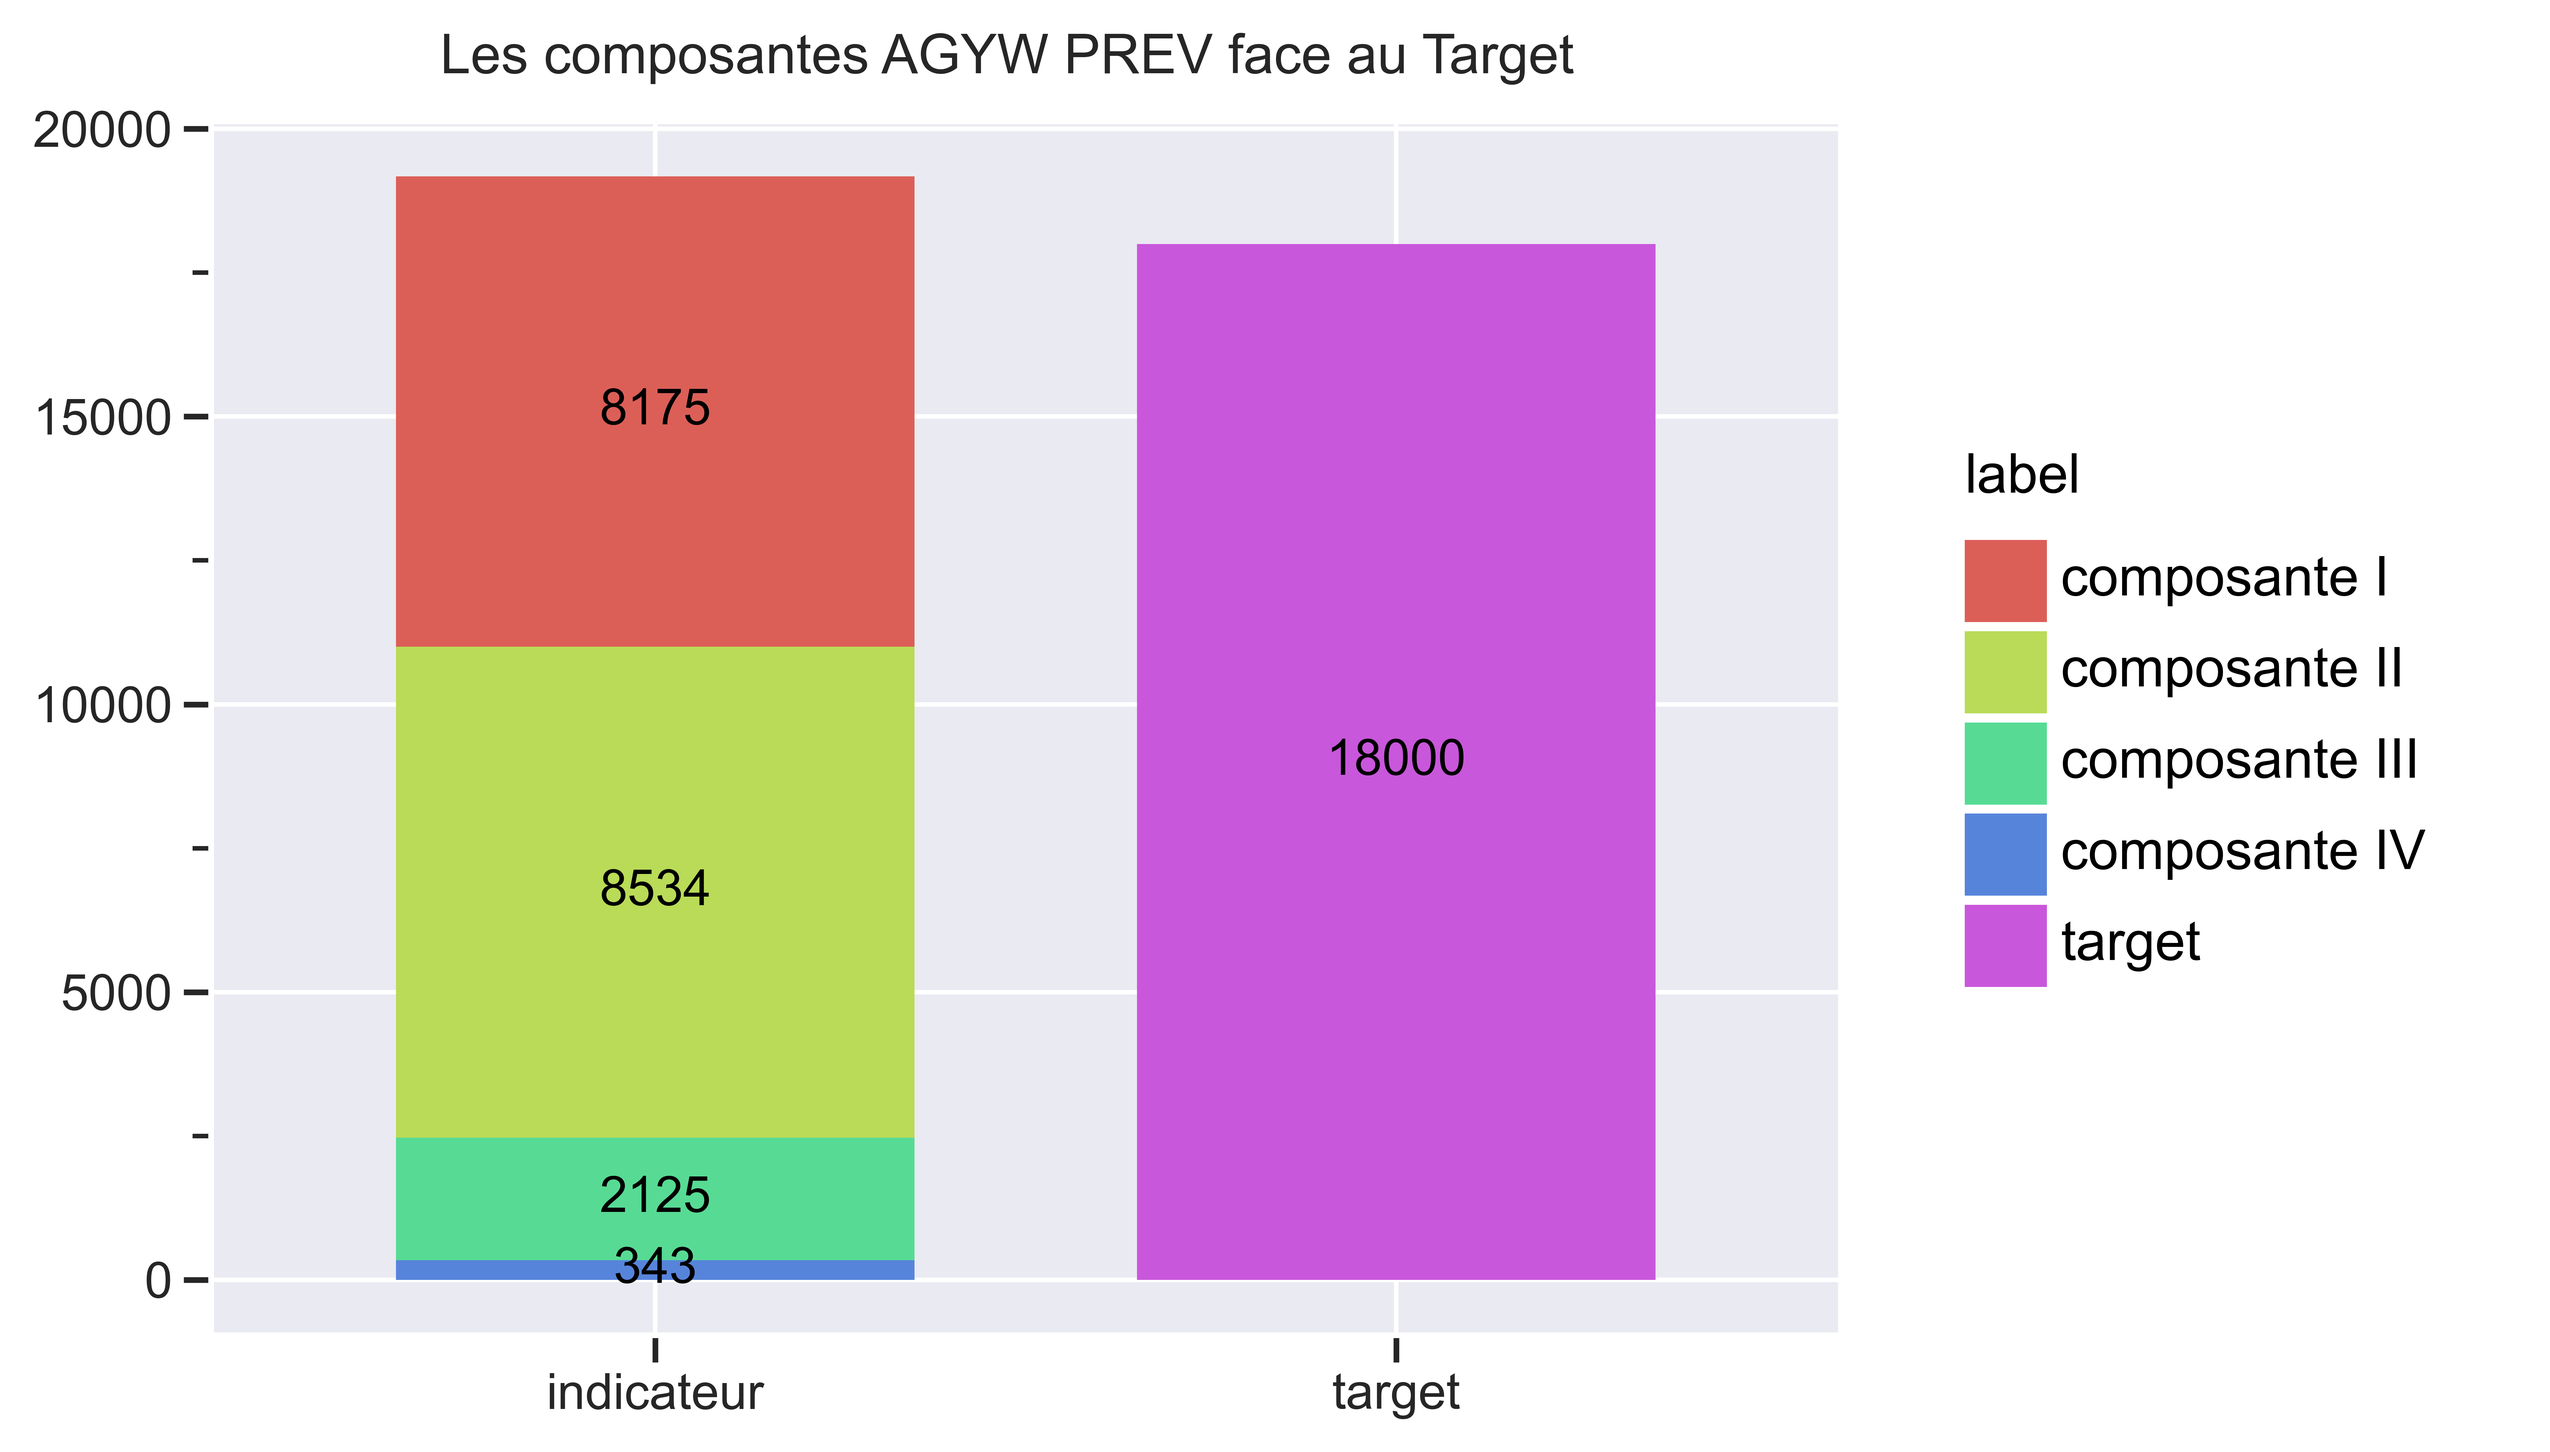
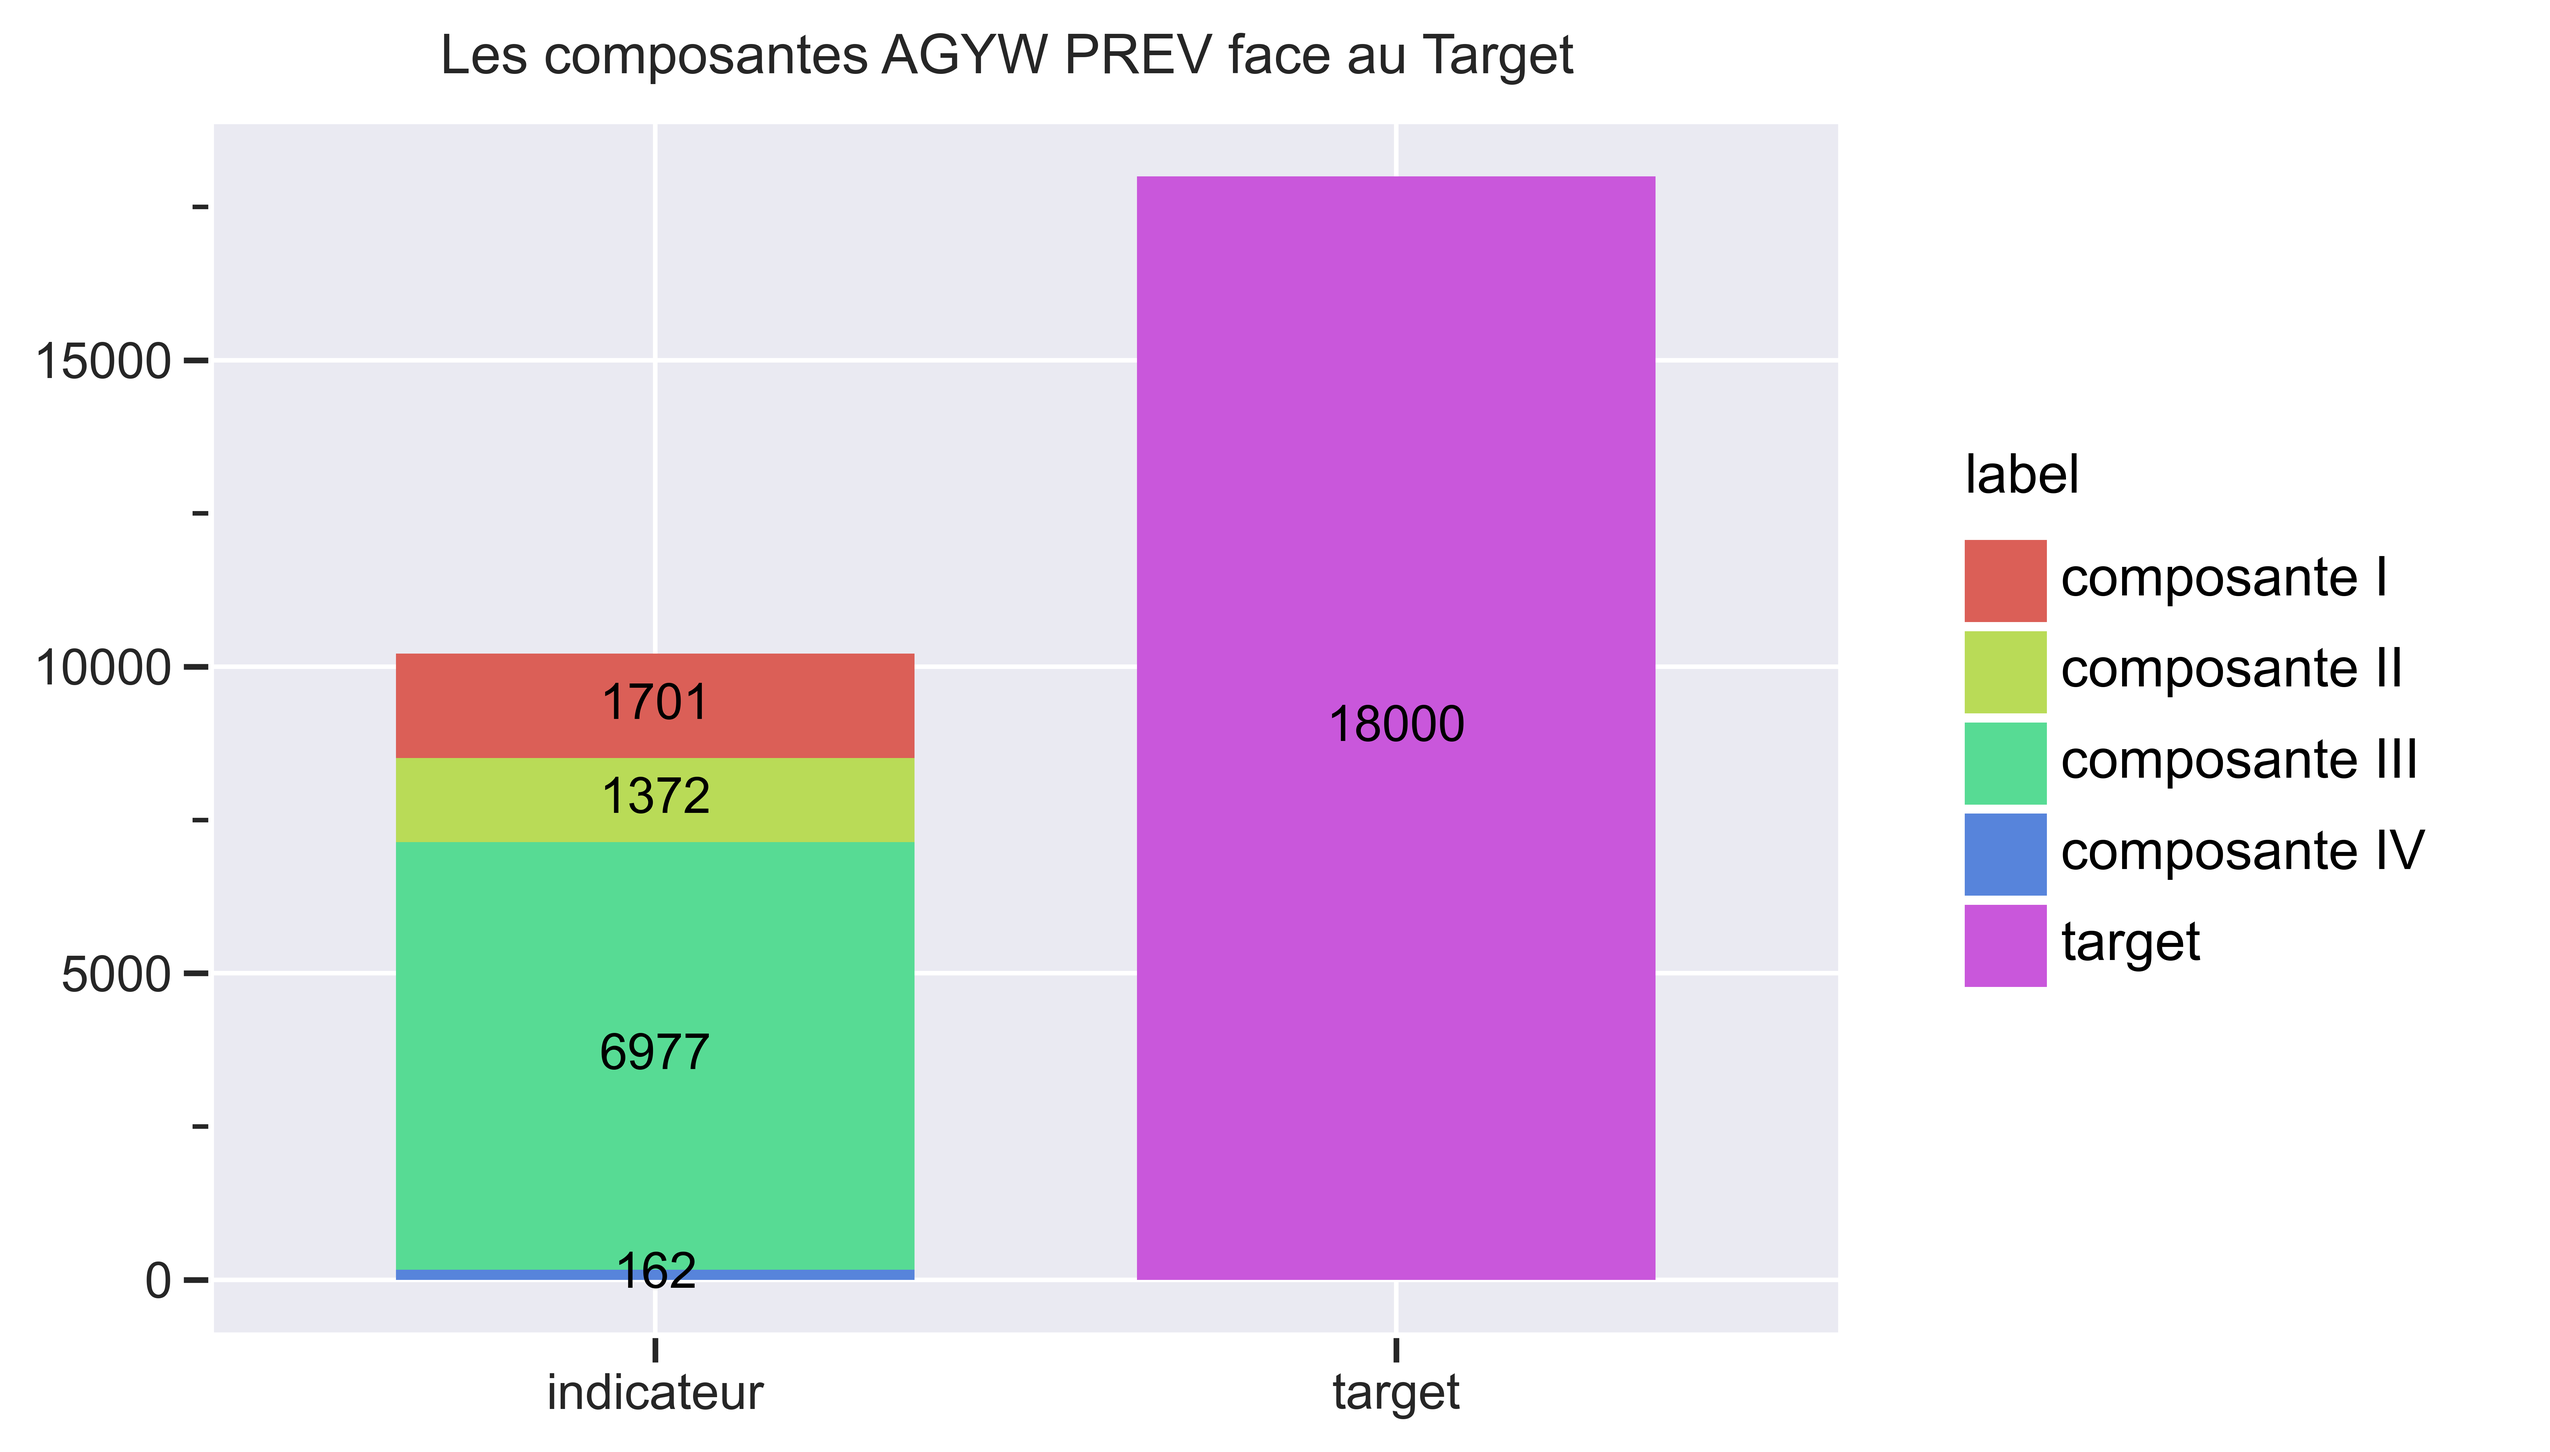
Q2FY21

diff --git a/data/v21/src/static/active.py b/data/v21/src/static/active.py
@@ -18,9 +18,9 @@ DBNAME = config('DBCaris')
 
 class Set_date(Enum):
     master_start = "2017-10-01"
-    master_end = "2021-09-30"
+    master_end = "2021-03-31"
     period_start = "2020-10-01"
-    period_end = "2021-09-30"
+    period_end = "2021-03-31"
 
 
 # get the engine to connect and fetch
